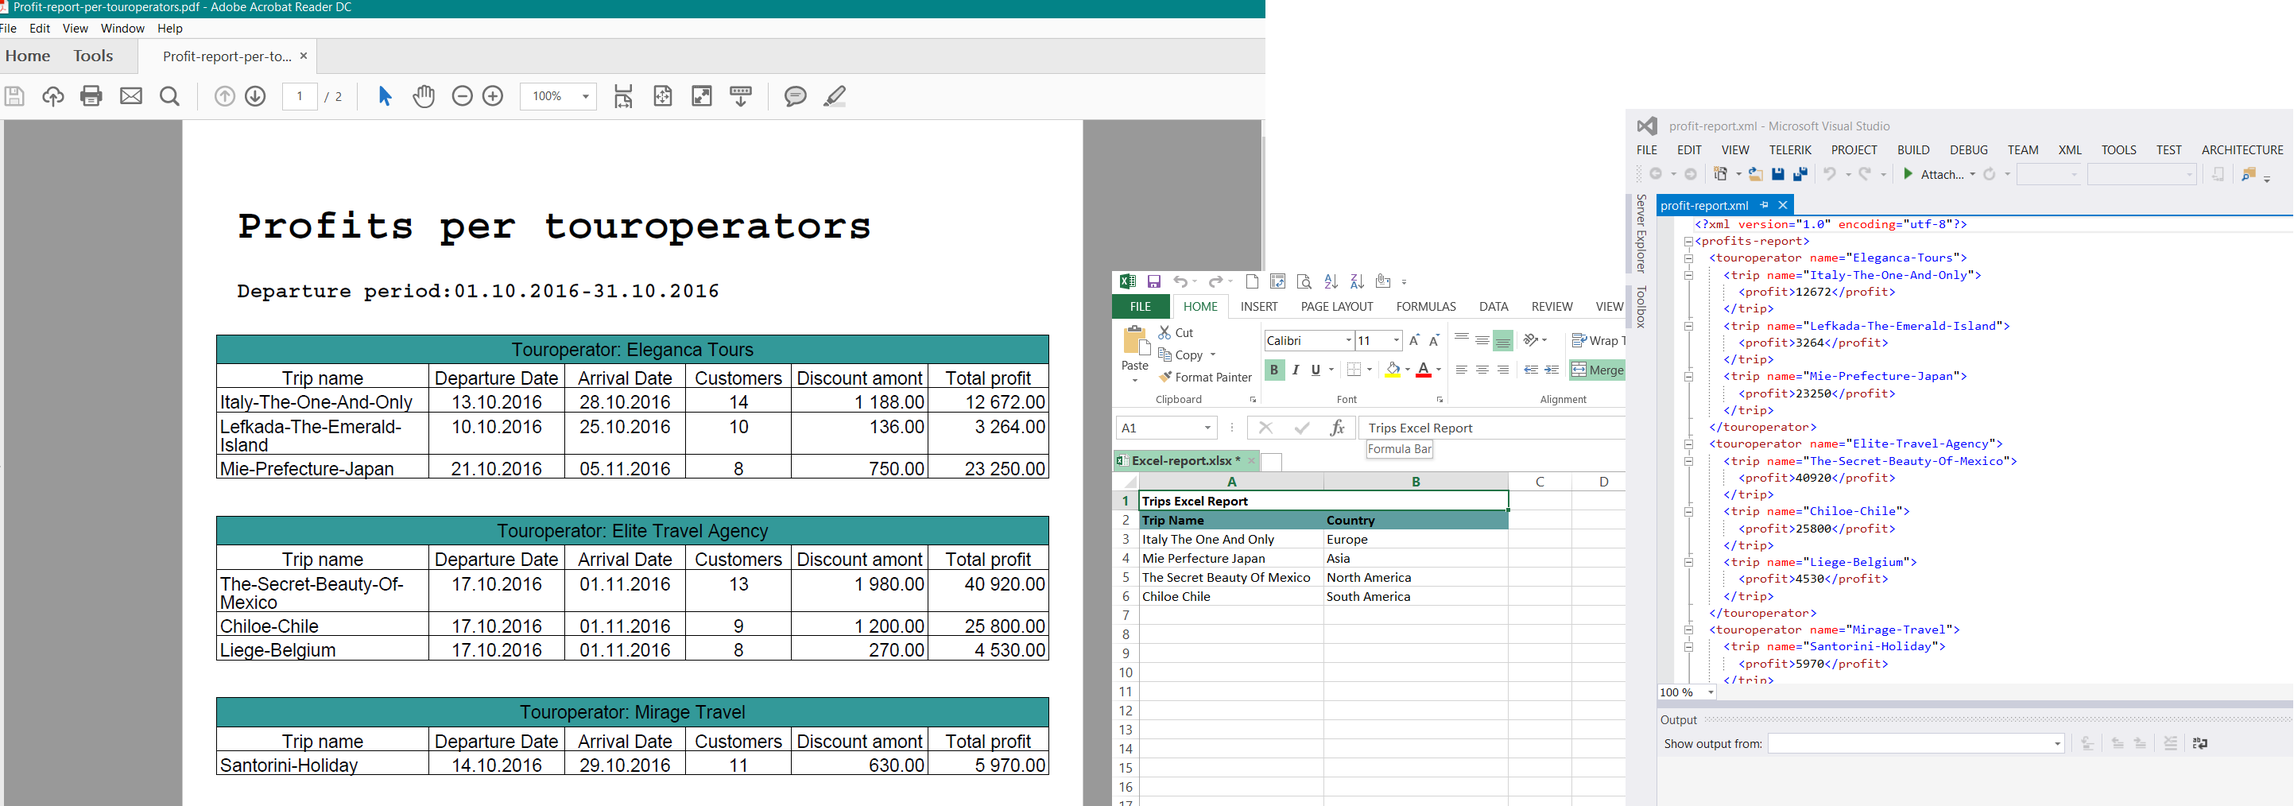
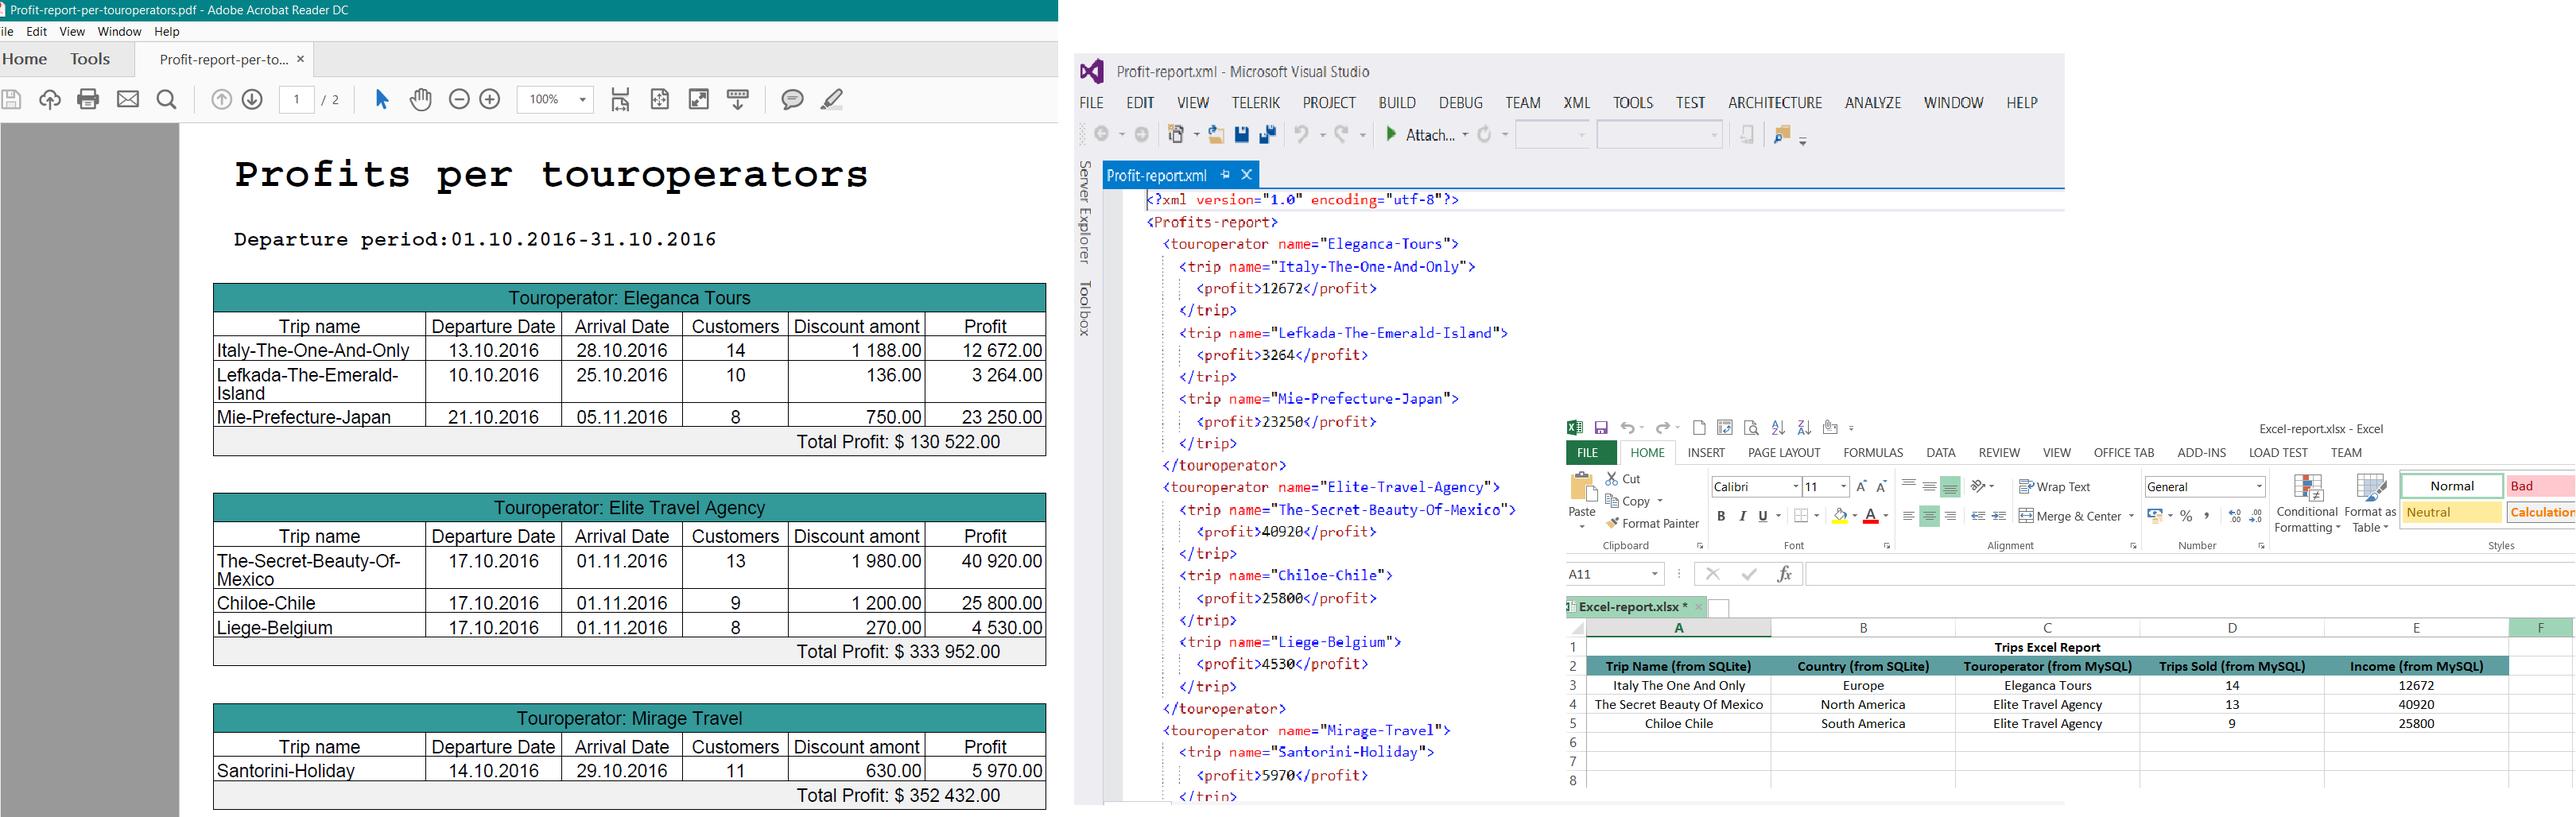
Fixed pdf report - show total sum row. Update image.

Changed region(s): [[0.0, 0.0, 1.0, 1.0], [0.8732, 0.1834, 0.9979, 0.214], [0.842, 0.214, 0.8732, 0.2446]]

diff --git a/TravelAgency/TravelAgency.ReportGenerators/PdfGenerator.cs b/TravelAgency/TravelAgency.ReportGenerators/PdfGenerator.cs
@@ -67,7 +67,8 @@ namespace TravelAgency.ReportGenerators
 
                 GetHeaders(table);
 
-                var trips = touroperator.Trips.Where(y => y.DeparterDate > reportStartDate || y.DeparterDate < reportEndDate).ToList();
+                var trips = touroperator.Trips
+                    .Where(y => y.DeparterDate > reportStartDate || y.DeparterDate < reportEndDate).ToList();
                 
                 foreach (var trip in trips)
                 {
@@ -113,6 +114,7 @@ namespace TravelAgency.ReportGenerators
                 }
 
                 var cellTotal = CreateColumn("Total Profit: $ " + total.ToString("N"), 2);
+                cellTotal.Colspan = TableColumnsNumber;
                 cellTotal.BackgroundColor = new BaseColor(241, 241, 241);
                 cellTotal.PaddingBottom = 5f;
                 cellTotal.PaddingRight = 30f;
@@ -143,7 +145,7 @@ namespace TravelAgency.ReportGenerators
             table.AddCell(CreateColumn("Arrival Date", 1));
             table.AddCell(CreateColumn("Customers", 1));
             table.AddCell(CreateColumn("Discount amont", 1));
-            table.AddCell(CreateColumn("Total profit", 1));
+            table.AddCell(CreateColumn("Profit", 1));
         }
 
         private PdfPCell CreateColumn(string columnName, int alignment)
